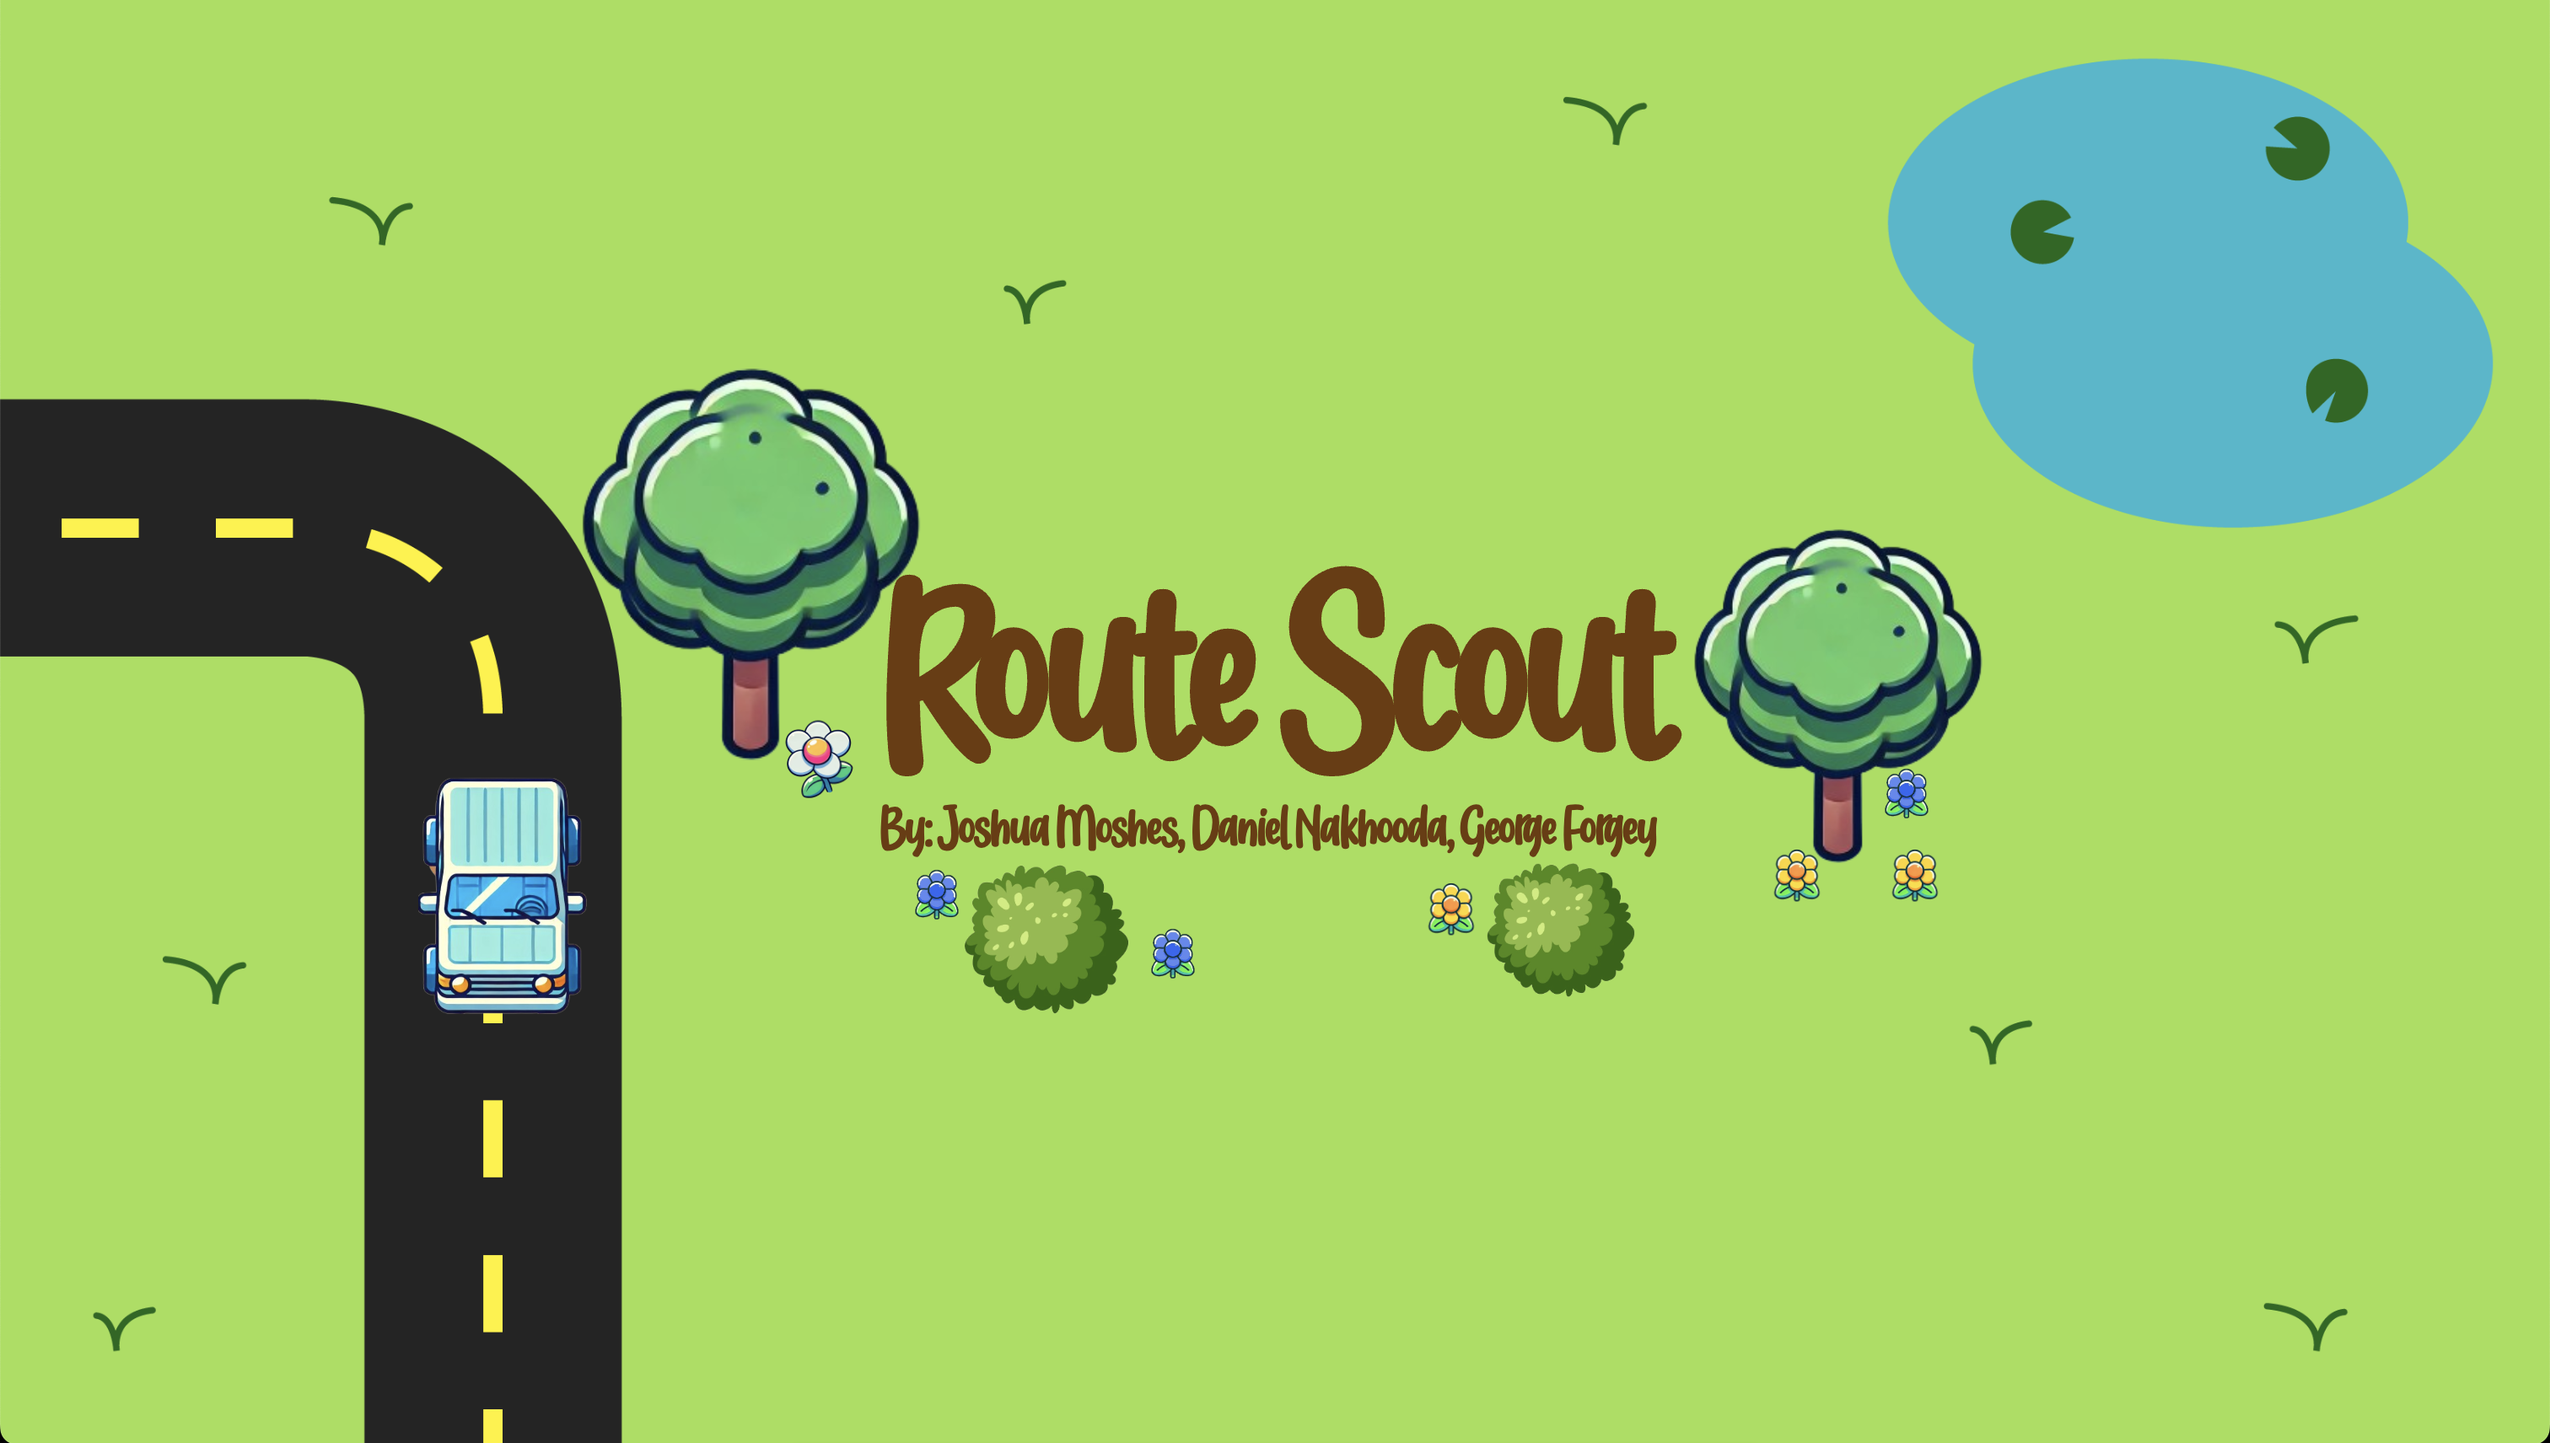
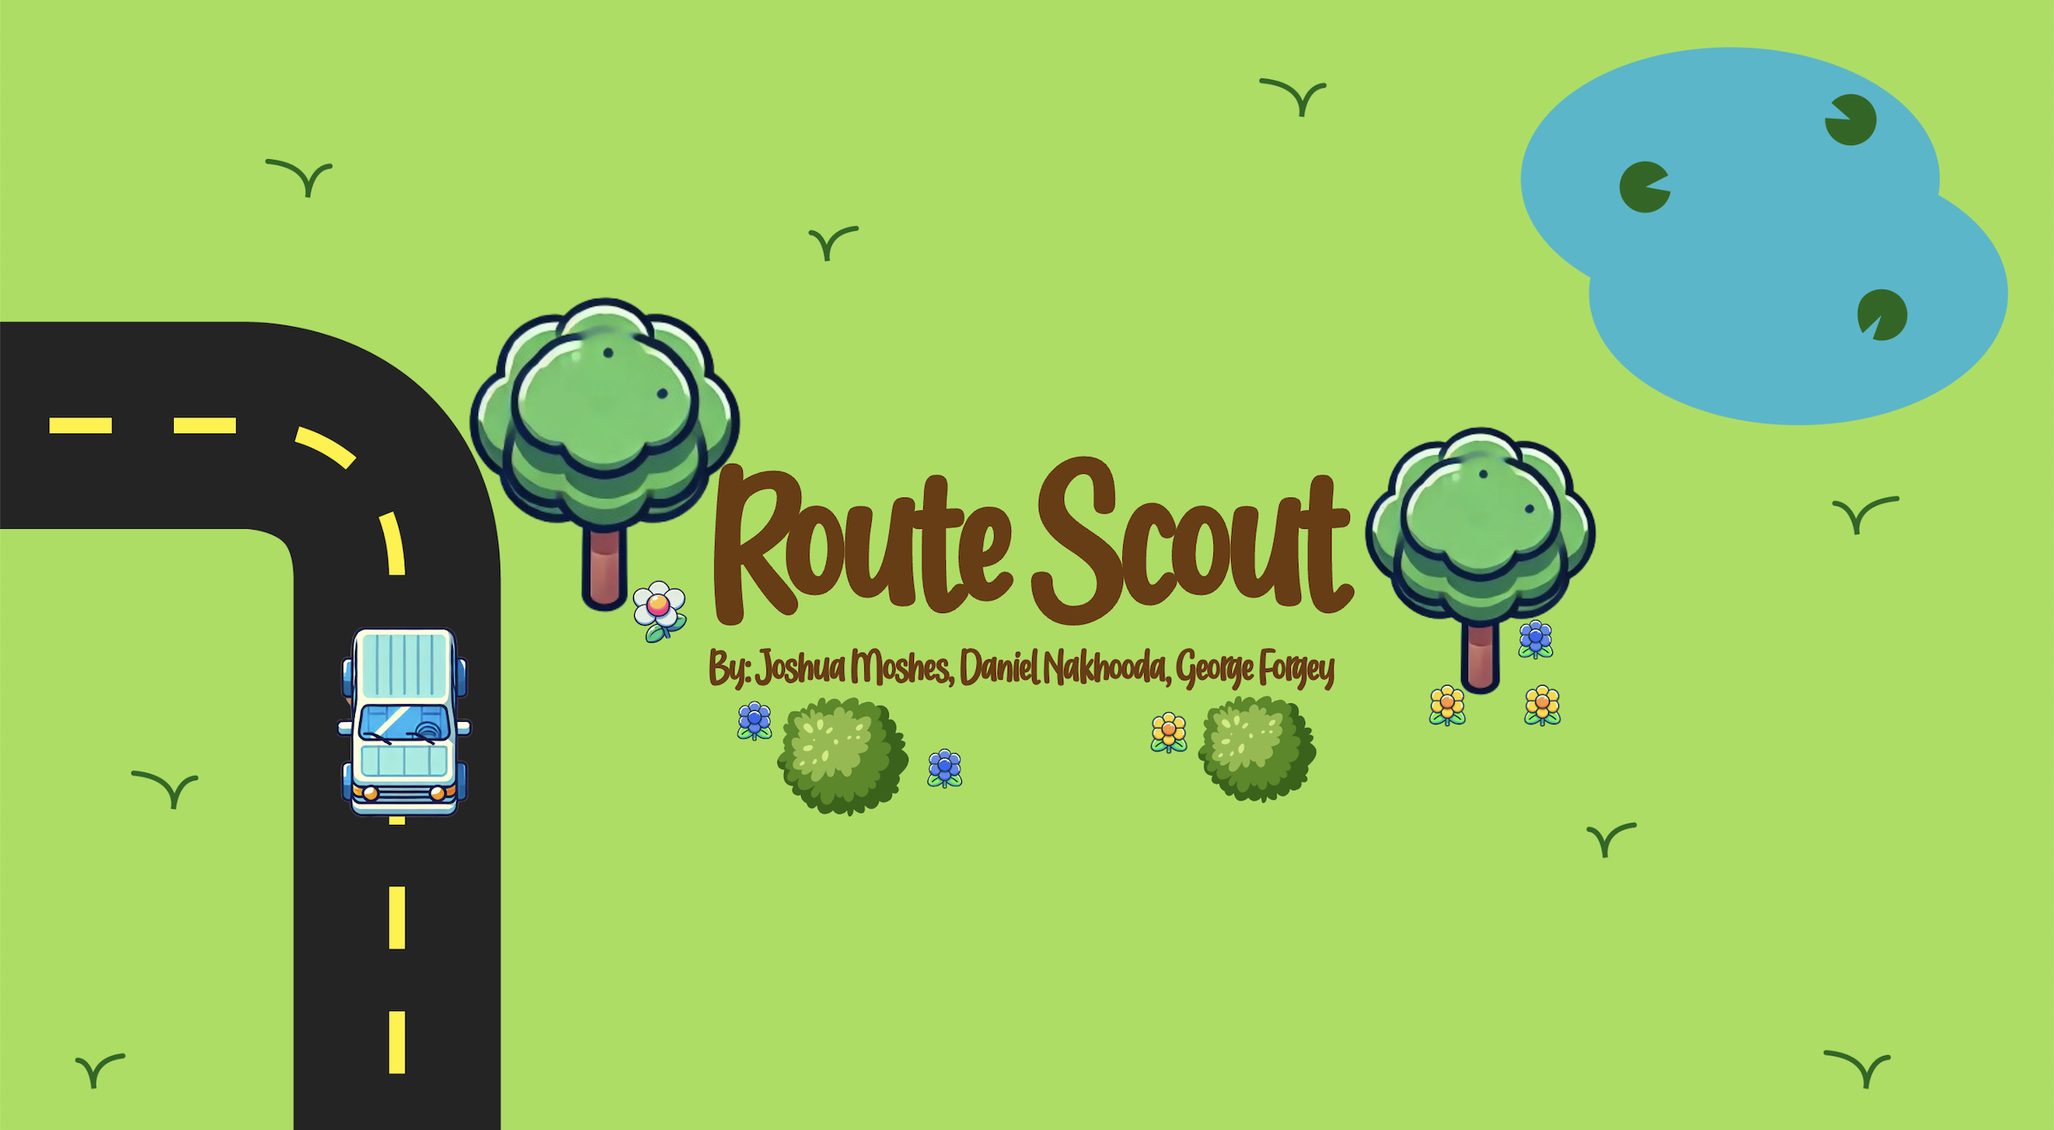
route scout

diff --git a/public/index.html b/public/index.html
@@ -348,7 +348,7 @@
                                         <a href="https://www.youtube.com/watch?v=9gVewRq6vCg" target="_blank" rel="noopener noreferrer">Route Scout</a>
                                     </h5>
                                     <a href="#" class="right-arrow-icon" id="right-arrow-icon"
-                                       data-icon="./images/route_scout.png" 
+                                       data-icon="./images/route_scout.svg" 
                                        data-title="Route Scout" 
                                        data-description="For the annual HackBeanpot competition, my team and I created Route Scout, an app that allows users to plan a road trip by inputting their start point, end point, trip length, and any places they want to visit along the way."
                                        data-url="https://www.youtube.com/watch?v=9gVewRq6vCg">               
